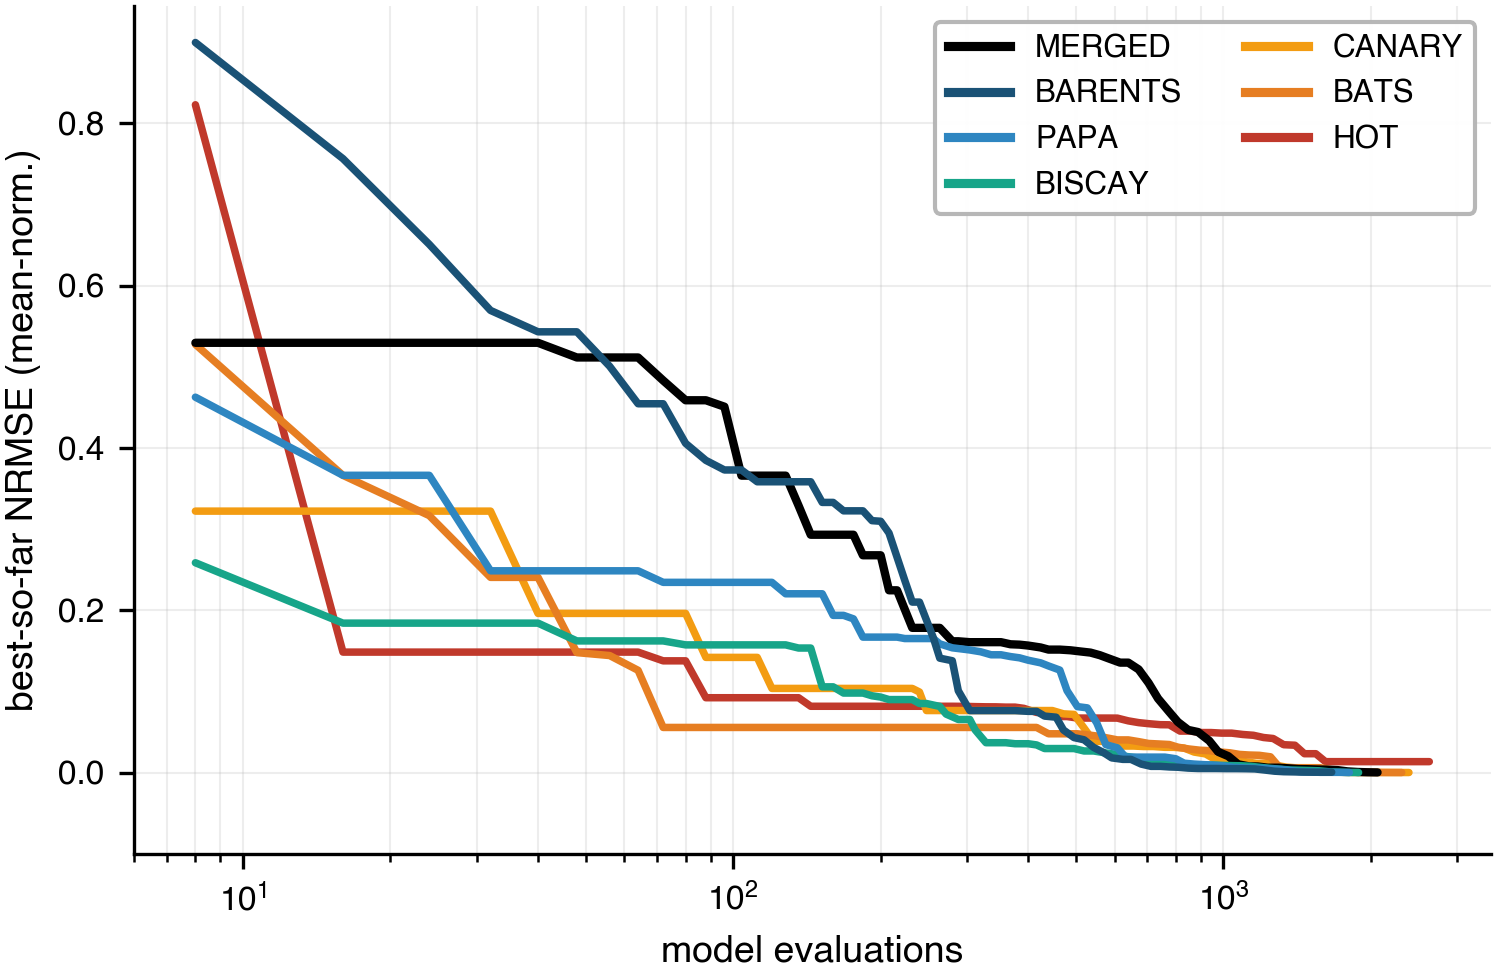
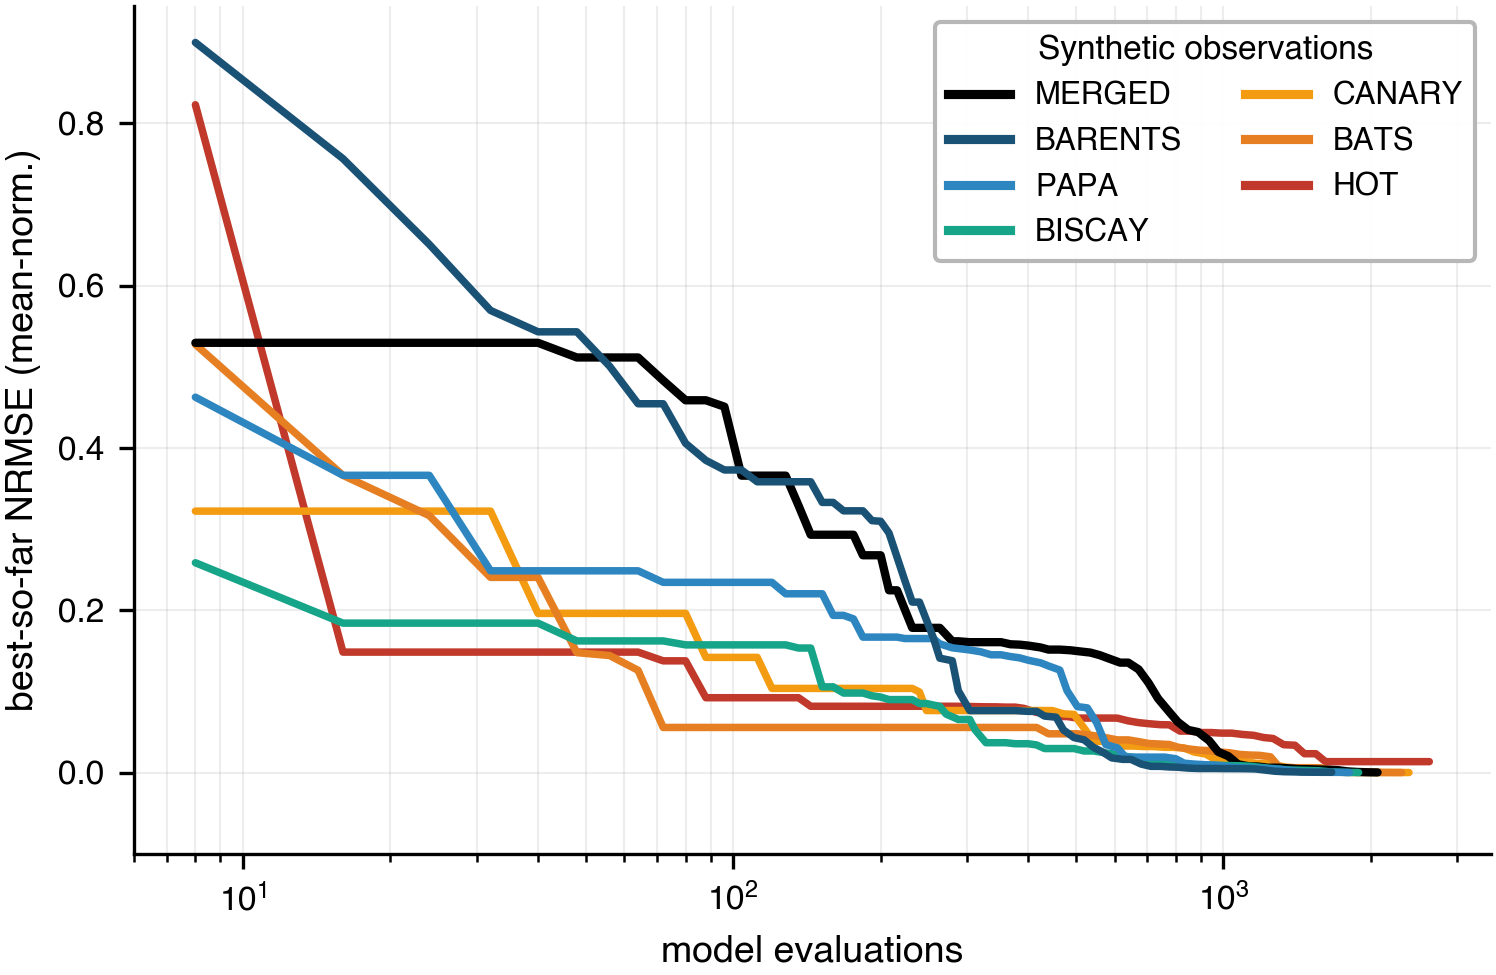
Fig 7: add a bold "Synthetic observations" legend title
Labels the convergence curves' targets as synthetic (twin) observations at a
glance, not real data. Term kept in sync with the manuscript wording.

Changed region(s): [[0.615, 0.0308, 1.0, 0.2769]]

diff --git a/scripts/figures/fig07_convergence.py b/scripts/figures/fig07_convergence.py
@@ -27,6 +27,9 @@ ap.add_argument("--metric", default=paths.PRODUCTION_METRIC, help="cost metric w
 METRIC = ap.parse_args().metric
 YLABEL = {"nrmse_std": "best-so-far NRMSE (std-norm.)", "nrmse_mean": "best-so-far NRMSE (mean-norm.)",
           "rmse": "best-so-far RMSE", "mae": "best-so-far MAE", "nmae": "best-so-far nMAE"}.get(METRIC, "best-so-far cost")
+# legend title: signals at a glance that every target is a synthetic (twin) observation, not real data.
+# one term for the whole paper -- keep in sync with the manuscript (currently "pseudo-observations").
+TARGET_LABEL = "Synthetic observations"
 
 traces = pd.read_csv(paths.cmaes_product("convergence_traces", METRIC))
 ORDER = fs.order(traces.experiment.unique())   # MERGED + 6 stations, cold -> warm
@@ -62,6 +65,8 @@ ax.set_ylabel(YLABEL)
 ax.grid(True, which="both", alpha=0.22, linewidth=0.5)
 
 handles = [Line2D([0], [0], color=fs.color(e), lw=2.2, label=fs.label(e)) for e in ORDER]
-ax.legend(handles=handles, loc="upper right", ncol=2, fontsize=7.5, frameon=True)
+leg = ax.legend(handles=handles, loc="upper right", ncol=2, fontsize=7.5, frameon=True,
+                title=TARGET_LABEL, title_fontsize=8)
+leg.get_title().set_fontweight("bold")
 fig.tight_layout()
 fs.save(fig, "Figure_7", subdir=None)
